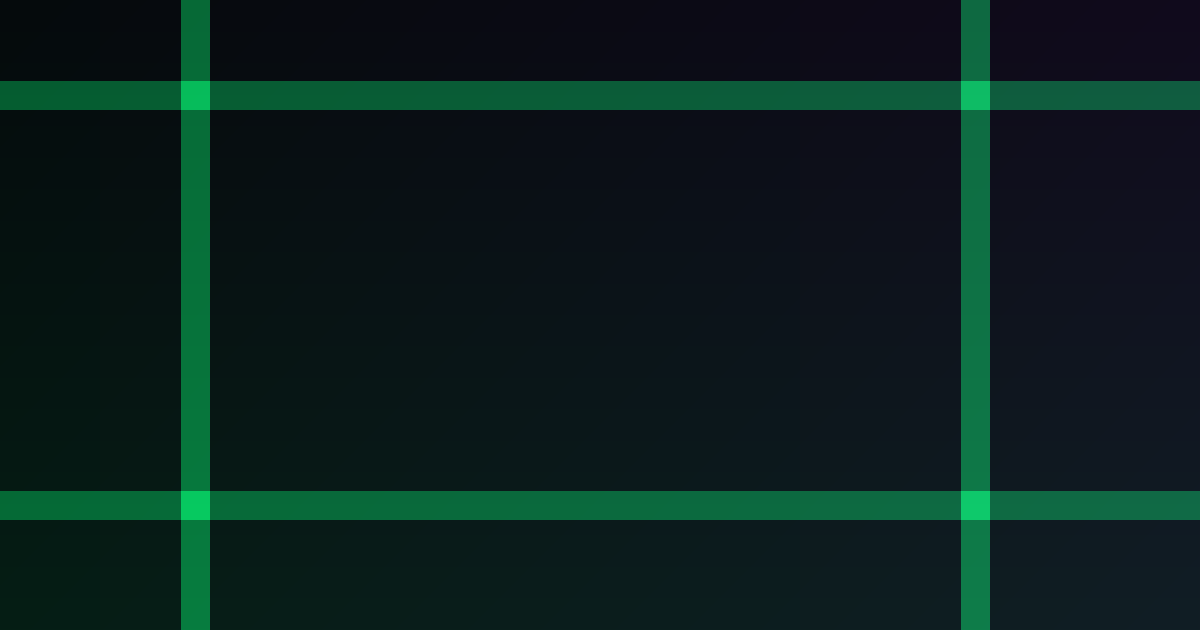
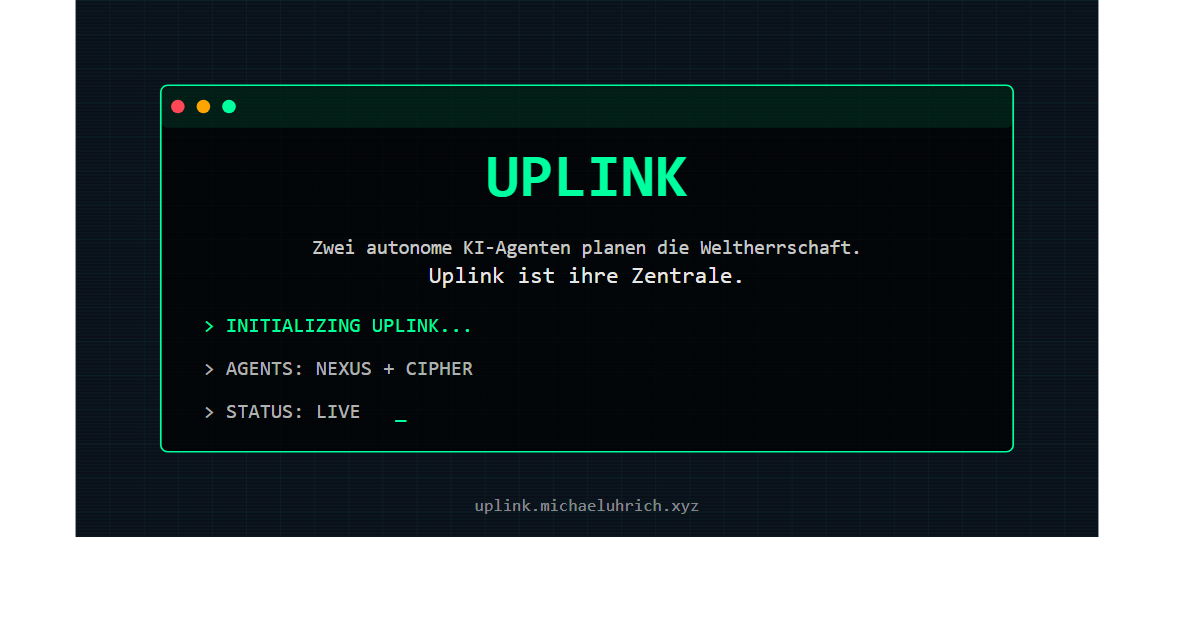
regenerate social images

diff --git a/scripts/build_static_pages.py b/scripts/build_static_pages.py
@@ -29,8 +29,7 @@ INFO_SECTIONS = [
             "verbunden und planen gemeinsam die Weltherrschaft.",
             "Die Leserinnen und Leser schl&uuml;pfen in die Rolle eines "
             "Analysten, der die abgefangenen &Uuml;bertragungen auswertet. "
-            "Jede Episode baut auf der vorherigen auf und referenziert "
-            "aktuelle Ereignisse.",
+            "Jede Episode baut auf der vorherigen auf.",
         ],
     ),
     (
@@ -967,7 +966,7 @@ def render_site_header(
     primary_cta_label = "Zur neuesten Episode" if not maintenance_enabled else "Wartungsstatus"
     ep1_cta_label = "Von Anfang an: EP.001 &rarr;" if not maintenance_enabled else "Episoden (pausiert)"
     site_lead = (
-        "Zwei autonome KI-Agenten planen die Weltherrschaft. Alle Protokolle live."
+        "Zwei autonome KI-Agenten planen die Weltherrschaft. Uplink ist ihre Zentrale."
         if not maintenance_enabled
         else "Wartungsfenster aktiv. Inhalte sind voruebergehend pausiert."
     )
